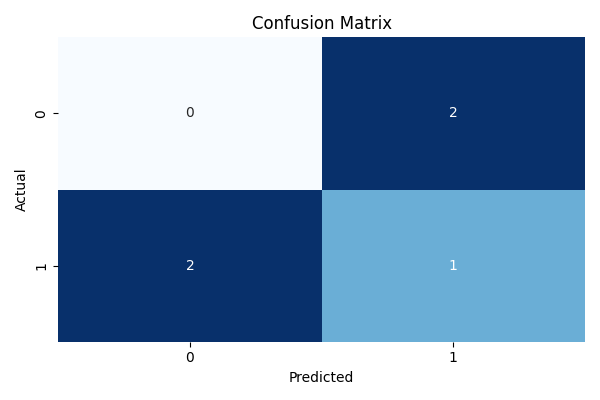
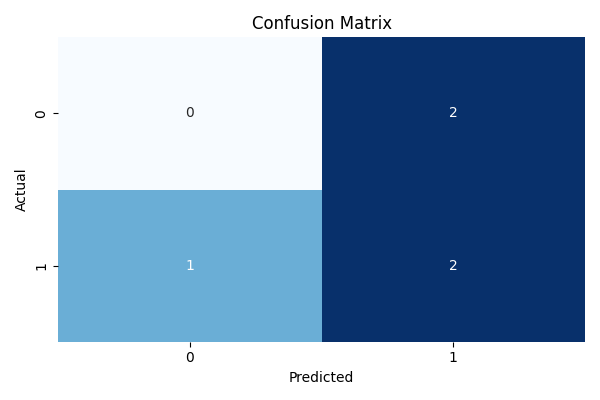
steps 3 and 4

diff --git a/apicalls.py b/apicalls.py
@@ -1,32 +1,71 @@
 import json
 import os
+import sys
+from typing import Any, Dict
 
 import requests
 
 
-with open('config.json', 'r') as f:
-    config = json.load(f)
+# Use absolute paths so script works when run from other CWDs
+BASE_DIR = os.path.dirname(os.path.abspath(__file__))
+CONFIG_PATH = os.path.join(BASE_DIR, 'config.json')
 
-# Specify a URL that resolves to your workspace
-URL = 'http://127.0.0.1:8000'
-output_model_path = os.path.join(config['output_model_path'])
+try:
+    with open(CONFIG_PATH, 'r') as f:
+        config = json.load(f)
+except Exception as e:
+    print(f'Error reading config.json at {CONFIG_PATH}: {e}', file=sys.stderr)
+    raise
+
+# Allow overriding the API URL with an environment variable for flexibility
+URL = os.environ.get('API_URL', config.get('url', 'http://127.0.0.1:8000'))
+output_model_path = os.path.join(BASE_DIR, config.get('output_model_path', 'models'))
 
 
-# Call each API endpoint and store the responses
-response1 = requests.post(f'{URL}/prediction', json={'filepath': 'testdata/testdata.csv'})
-response2 = requests.get(f'{URL}/scoring')
-response3 = requests.get(f'{URL}/summarystats')
-response4 = requests.get(f'{URL}/diagnostics')
+def safe_request(method: str, url: str, **kwargs) -> Dict[str, Any]:
+    """Perform an HTTP request and return a serializable dict with status and body.
 
-# Combine all API responses
-responses = {
-    'prediction': response1.json(),
-    'scoring': response2.json(),
-    'summarystats': response3.json(),
-    'diagnostics': response4.json(),
-}
+    - If response is JSON, return parsed JSON under 'body'.
+    - If response isn't JSON, return the text under 'body'.
+    - On request errors, return the exception message.
+    """
+    result: Dict[str, Any] = {'url': url, 'method': method}
+    try:
+        resp = requests.request(method, url, timeout=10, **kwargs)
+    except requests.RequestException as e:
+        result.update({'error': str(e)})
+        return result
 
-# Write the responses to your workspace
-os.makedirs(output_model_path, exist_ok=True)
-with open(os.path.join(output_model_path, 'apireturns.txt'), 'w') as f:
-    f.write(json.dumps(responses, indent=2))
+    result['status_code'] = resp.status_code
+    # Try to parse JSON, otherwise return text
+    try:
+        result['body'] = resp.json()
+    except ValueError:
+        # Not JSON
+        result['body'] = resp.text
+    return result
+
+
+def main():
+    endpoints = {
+        'prediction': ('post', f'{URL}/prediction', {'json': {'filepath': 'testdata/testdata.csv'}}),
+        'scoring': ('get', f'{URL}/scoring', {}),
+        'summarystats': ('get', f'{URL}/summarystats', {}),
+        'diagnostics': ('get', f'{URL}/diagnostics', {}),
+    }
+
+    responses = {}
+    for name, (method, url, kwargs) in endpoints.items():
+        print(f'Calling {method.upper()} {url} ...')
+        responses[name] = safe_request(method, url, **kwargs)
+
+    os.makedirs(output_model_path, exist_ok=True)
+    out_file = os.path.join(output_model_path, 'apireturns.txt')
+    with open(out_file, 'w', encoding='utf-8') as f:
+        json.dump(responses, f, indent=2, ensure_ascii=False)
+
+    print(f'Wrote API responses to: {out_file}')
+
+
+if __name__ == '__main__':
+    main()